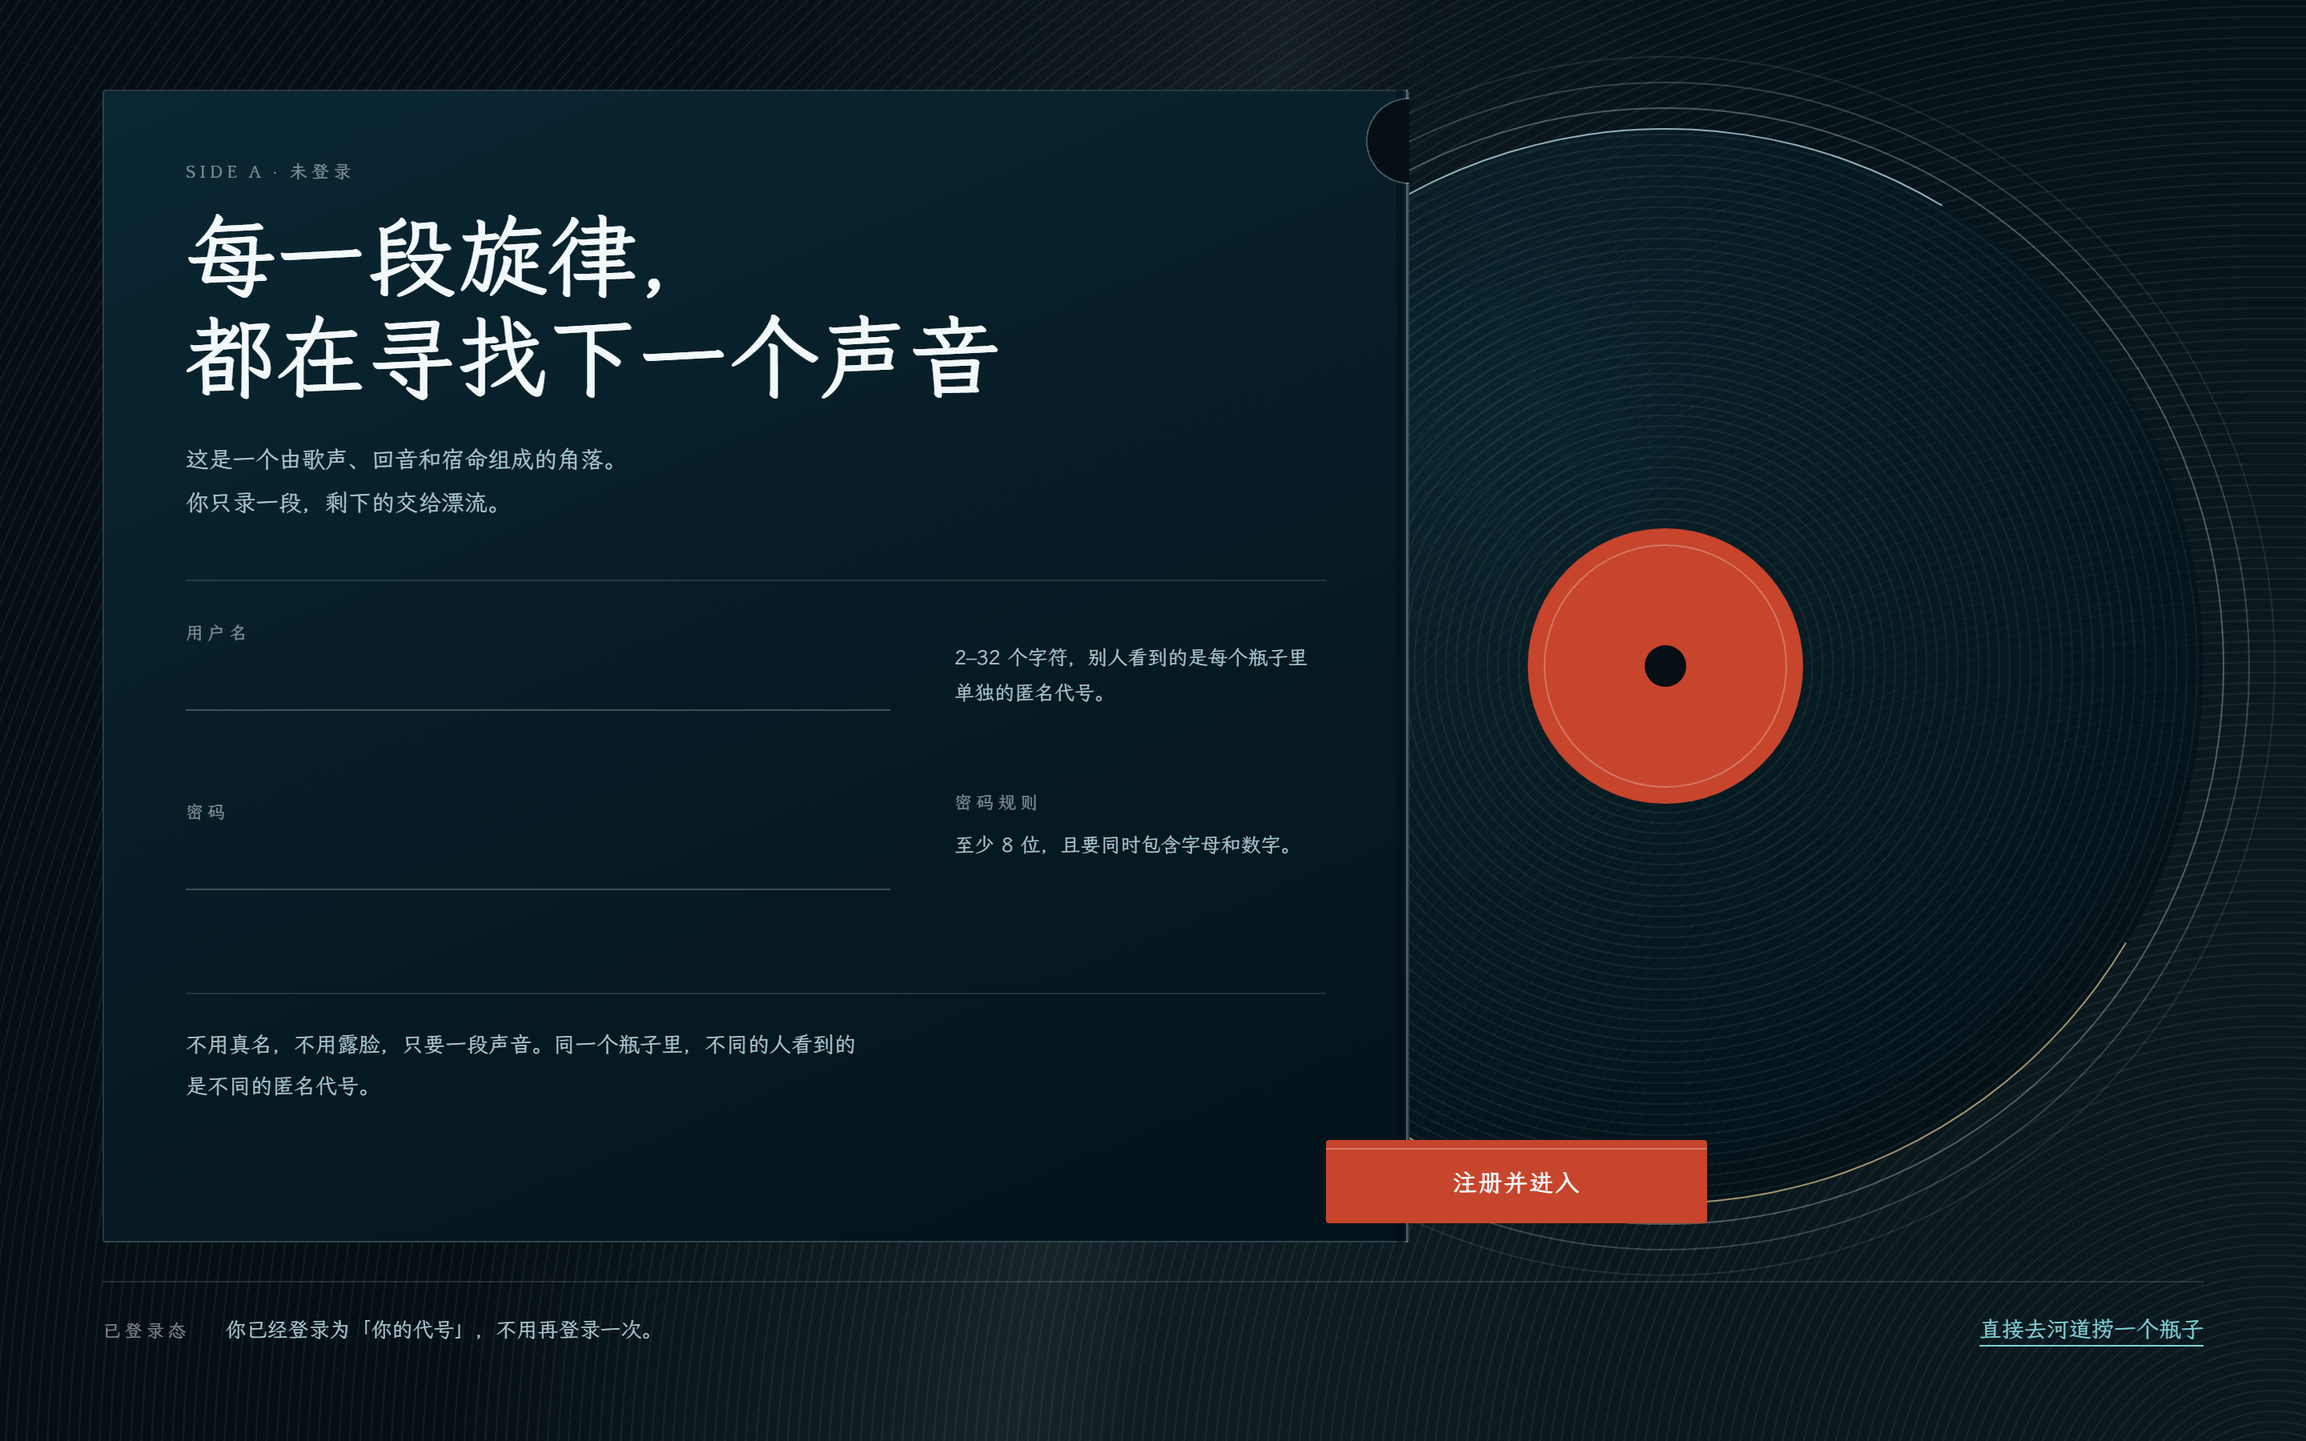
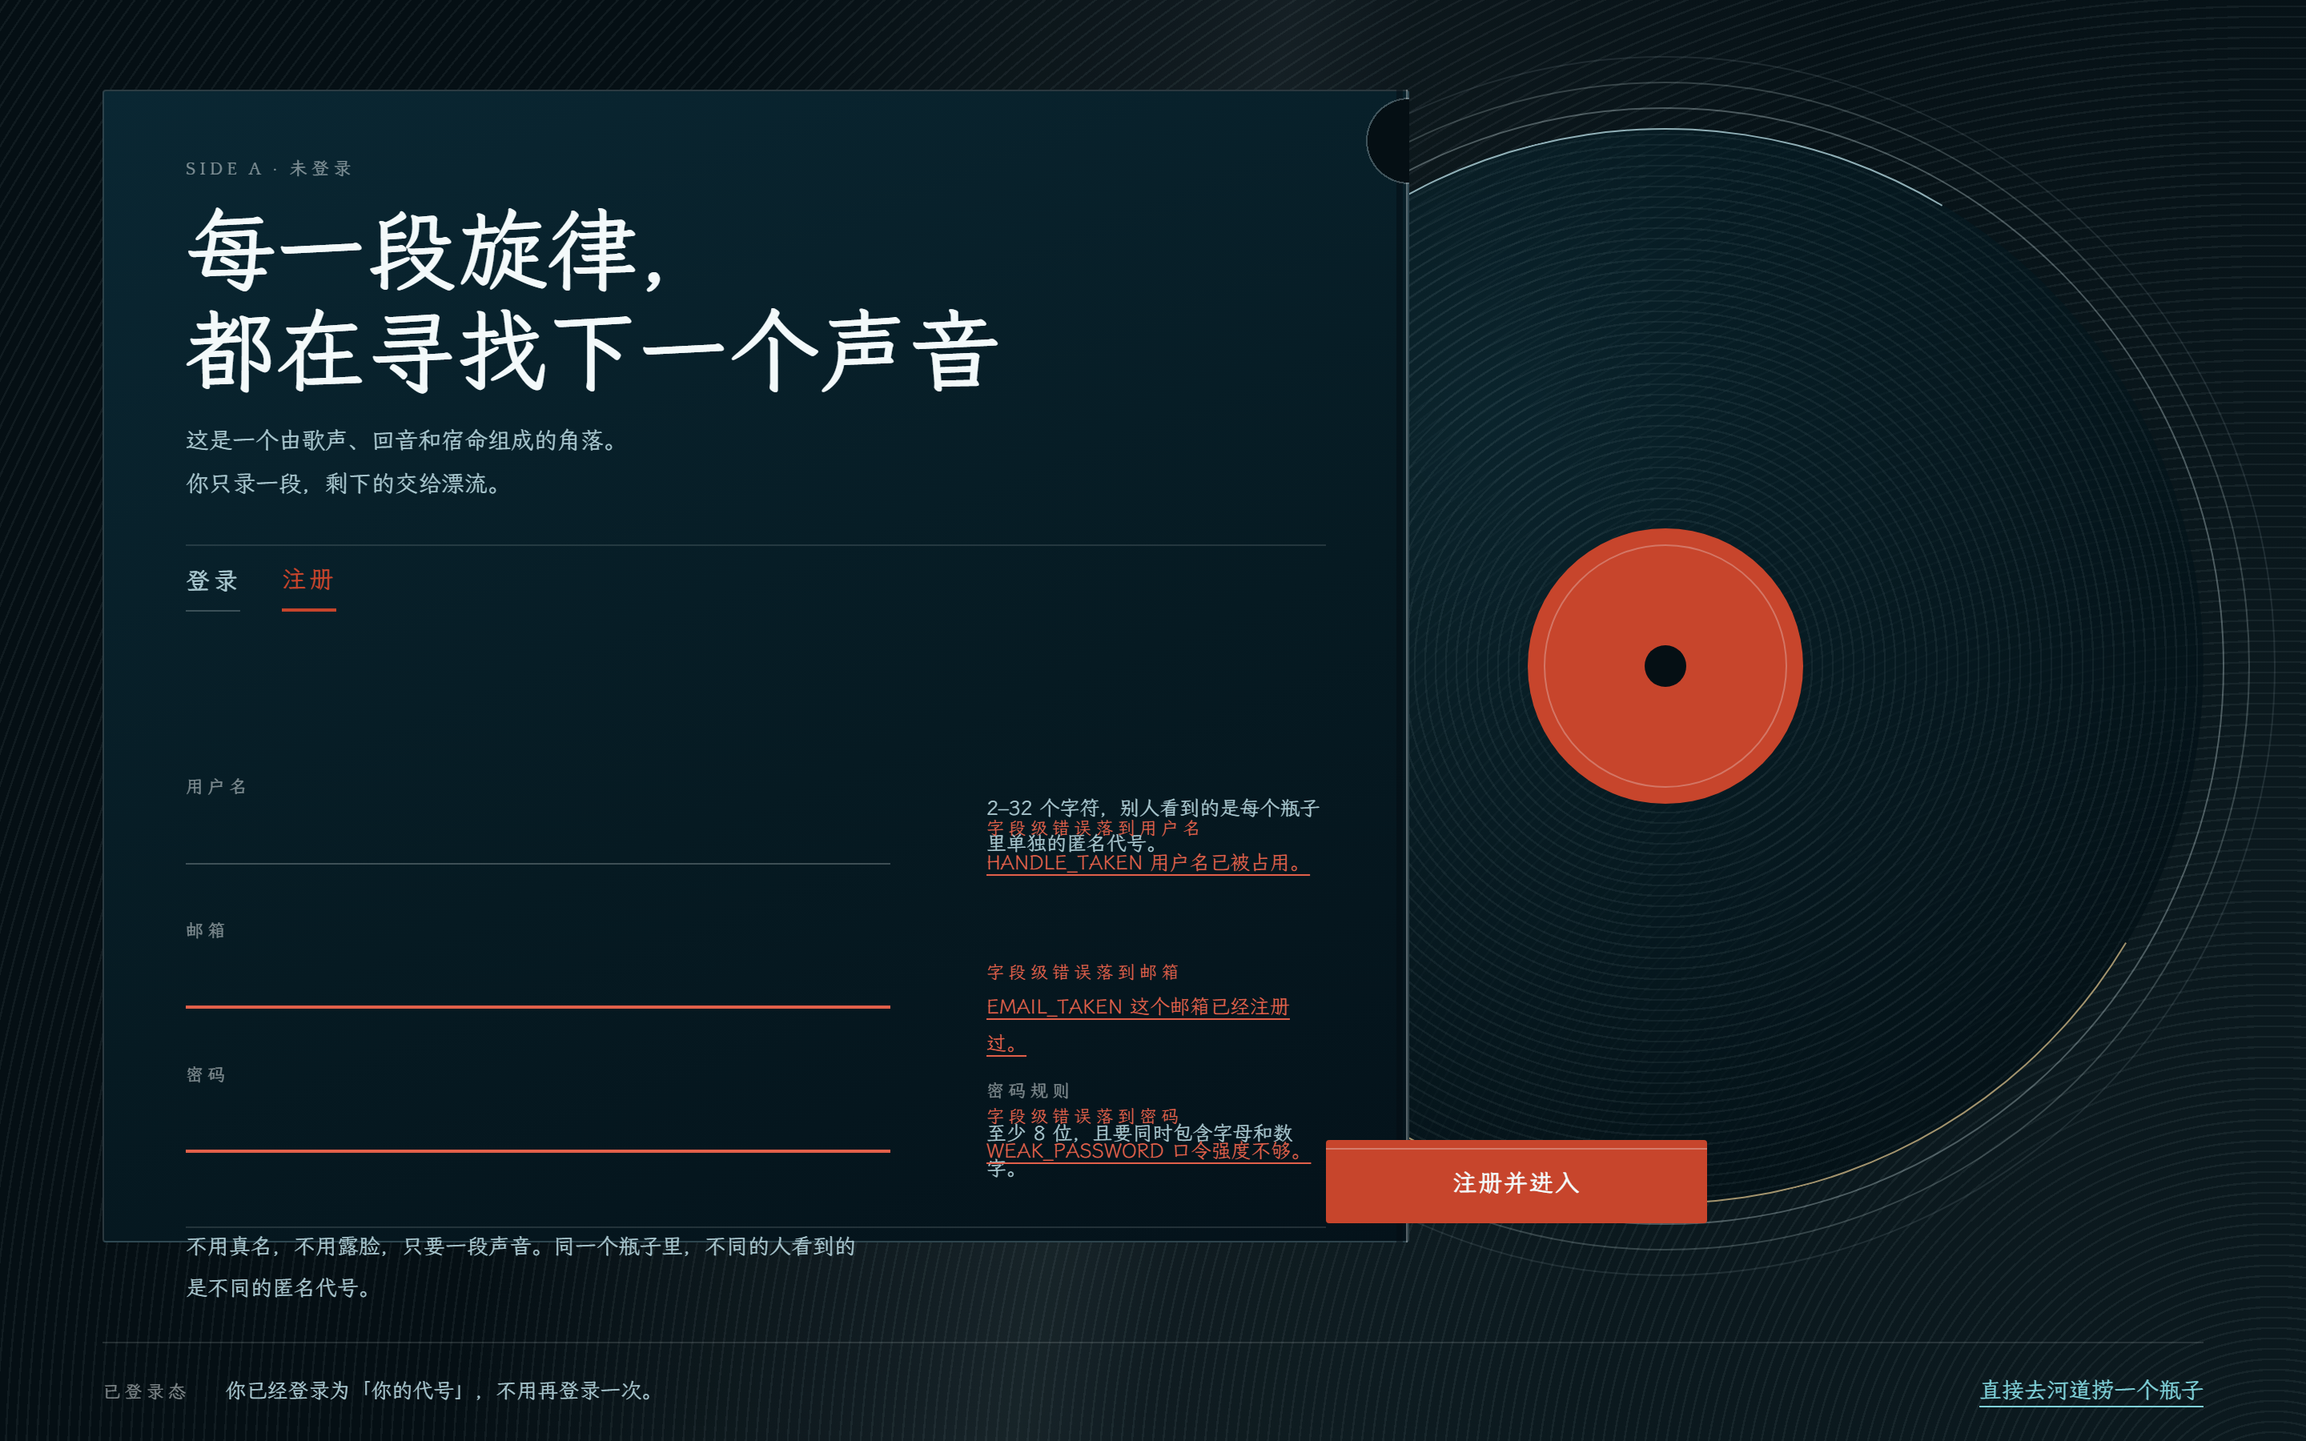
docs(design-explore): 落一份可追溯的逐页对照 + 交付审计（_AUDIT.md）
把此前只在对话里给过的 9 页适配度对照、本批 8 页的逐张判断与弱点、跨页装置重复风险、以及本批全部事故与我的两处规格错误，落成文档，避免结论只活在对话里。

diff --git a/docs/ui-review/design-explore/p-login-record.html b/docs/ui-review/design-explore/p-login-record.html
@@ -11,6 +11,7 @@
       :root {
         --ink:#050f14; --paper:#f3f9fa; --muted:#a9c7cf; --glass:#7fd1d9;
         --coral:#c7452c; --warm:#f6d79a; --line:rgba(243,249,250,.13);
+        --error:#e2604a;
       }
       * { box-sizing:border-box; margin:0; padding:0; }
       html,body { width:1440px; height:900px; }
@@ -61,30 +62,46 @@
           var(--ink) 0 26px, rgba(243,249,250,.24) 26px 27px, transparent 27px); }
 
       main { position:relative; z-index:2; }
-      .cat { position:absolute; left:116px; top:100px; font-size:11px; letter-spacing:.24em;
+      .cat { position:absolute; left:116px; top:98px; font-size:11px; letter-spacing:.24em;
         color:rgba(243,249,250,.5); }
-      h1 { position:absolute; left:116px; top:128px; width:712px; font-size:56px; font-weight:700;
+      h1 { position:absolute; left:116px; top:124px; width:712px; font-size:56px; font-weight:700;
         line-height:1.12; letter-spacing:.01em; }
-      .lede { position:absolute; left:116px; top:274px; width:620px; font-size:14.5px; line-height:1.85;
+      .lede { position:absolute; left:116px; top:262px; width:620px; font-size:14.5px; line-height:1.85;
         color:var(--muted); }
       .rule { position:absolute; left:116px; width:712px; height:1px; background:var(--line); }
 
+      /* 模式切换 = 压在封套左栏顶上的一对制式页签（源码里的 Tabs） */
+      .modes { position:absolute; left:116px; top:352px; display:flex; gap:26px; }
+      .mode { padding:0 0 9px; font-family:inherit; font-size:15px; font-weight:700; letter-spacing:.14em;
+        color:var(--muted); background:transparent; border:0; border-bottom:1px solid rgba(243,249,250,.22);
+        cursor:pointer; }
+      .mode.on { color:var(--coral); border-bottom:2px solid var(--coral); }
+
       .field { position:absolute; left:116px; width:440px; }
-      .f-handle { top:382px; }
-      .f-password { top:494px; }
+      .f-handle { top:478px; }
+      .f-email { top:568px; height:54px; }
+      .f-password { top:658px; height:54px; }
       .lbl { font-size:11px; letter-spacing:.24em; color:rgba(243,249,250,.5); }
       .field input { display:block; width:100%; height:34px; margin-top:6px; padding:0 0 6px;
         font-family:inherit; font-size:15.5px; color:var(--paper); background:transparent;
         border:0; border-bottom:1px solid rgba(243,249,250,.24); }
+      .field.bad input { border-bottom-width:2px; border-bottom-color:var(--error); }
+
+      /* 字段级错误的落位：一直落在字段列的右侧，靠底色 + 下划线双通道，不靠颜色单独表达 */
+      .err { position:absolute; left:616px; width:212px; color:var(--error); }
+      .err .lbl { color:inherit; }
+      .err .v { margin-top:9px; font-size:12.5px; line-height:1.7;
+        text-decoration:underline; text-decoration-thickness:1px; text-underline-offset:3px; }
+      .err.e-handle { top:504px; }
+      .err.e-password { top:684px; }
 
       /* 字段说明 = 印在栏目右侧的规格小字（表单的页边注） */
-      .spec { position:absolute; left:596px; width:232px; }
-      .spec.s1 { top:400px; }
-      .spec.s2 { top:494px; }
+      .spec { position:absolute; left:616px; width:212px; }
+      .spec.s1 { top:494px; }
       .spec .v { font-size:12.5px; line-height:1.75; color:var(--muted); }
       .spec .lbl + .v { margin-top:9px; }
 
-      .etiquette { position:absolute; left:116px; top:640px; width:420px; font-size:13.5px;
+      .etiquette { position:absolute; left:116px; top:766px; width:420px; font-size:13.5px;
         line-height:1.9; color:var(--muted); }
 
       /* 主行动 = 封套开口上的拉片：一半在封套里，一半压在唱片上 */
@@ -94,7 +111,7 @@
       .tab::before { content:''; position:absolute; left:0; top:5px; right:0; height:1px;
         background:rgba(243,249,250,.32); }
 
-      .band { position:absolute; left:64px; right:64px; top:800px; padding-top:20px;
+      .band { position:absolute; left:64px; right:64px; top:838px; padding-top:20px;
         border-top:1px solid var(--line); display:flex; align-items:baseline; gap:22px; }
       .band .said { font-size:13px; color:var(--muted); }
       .go { margin-left:auto; font-size:14px; color:var(--glass);
@@ -122,7 +139,12 @@
       <h1>每一段旋律，<br />都在寻找下一个声音</h1>
       <p class="lede">这是一个由歌声、回音和宿命组成的角落。<br />你只录一段，剩下的交给漂流。</p>
 
-      <div class="rule" style="top:362px"></div>
+      <div class="rule" style="top:340px"></div>
+
+      <div class="modes">
+        <button class="mode" type="button">登录</button>
+        <button class="mode on" type="button">注册</button>
+      </div>
 
       <div class="field f-handle">
         <label class="lbl meta" for="handle">用户名</label>
@@ -133,17 +155,37 @@
         <p class="v">2–32 个字符，别人看到的是每个瓶子里单独的匿名代号。</p>
       </div>
 
-      <div class="spec s2">
+      <p class="err e-handle" role="alert">
+        <span class="lbl">字段级错误落到用户名</span>
+        <span class="v">HANDLE_TAKEN 用户名已被占用。</span>
+      </p>
+
+      <div class="field f-email bad">
+        <label class="lbl meta" for="email">邮箱</label>
+        <input id="email" name="email" type="email" autocomplete="email" aria-invalid="true" />
+      </div>
+
+      <p class="err e-email" style="top:594px" role="alert">
+        <span class="lbl">字段级错误落到邮箱</span>
+        <span class="v">EMAIL_TAKEN 这个邮箱已经注册过。</span>
+      </p>
+
+      <div class="field f-password bad">
+        <label class="lbl meta" for="password">密码</label>
+        <input id="password" name="password" type="password" autocomplete="new-password" aria-invalid="true" />
+      </div>
+
+      <div class="spec s2" style="top:674px">
         <p class="lbl meta">密码规则</p>
         <p class="v">至少 8 位，且要同时包含字母和数字。</p>
       </div>
 
-      <div class="field f-password">
-        <label class="lbl meta" for="password">密码</label>
-        <input id="password" name="password" type="password" autocomplete="new-password" />
-      </div>
+      <p class="err e-password" role="alert">
+        <span class="lbl">字段级错误落到密码</span>
+        <span class="v">WEAK_PASSWORD 口令强度不够。</span>
+      </p>
 
-      <div class="rule" style="top:620px"></div>
+      <div class="rule" style="top:766px"></div>
 
       <p class="etiquette">不用真名，不用露脸，只要一段声音。同一个瓶子里，不同的人看到的是不同的匿名代号。</p>
 

diff --git a/docs/ui-review/design-explore/_AUDIT.md b/docs/ui-review/design-explore/_AUDIT.md
@@ -1,0 +1,68 @@
+# 全站语言对照与交付审计（record-v1 批次）
+
+> 本文件是「F4 唱片语言 vs g3 水底语言」的适配度对照 + 本批并行交付的 captain 复核记录。
+> 关联契约：`_LANGUAGE.md`（语言契约）、`docs/architecture.md` §103（设计探索决策）。
+> 判据一律以**机器输出**为准：`_shoot.mjs` 会打印 `1440x900 ✓ 一屏内` / `⚠ 超出一屏`。
+
+---
+
+## 1. 逐页适配度对照（9 页）
+
+| 页面 | 必须装什么（源码为准） | F4 唱片语言 | g3 水底语言 | 判 |
+| --- | --- | --- | --- | --- |
+| **公海大厅** | 4 字段列表 + 两 Tab + 真分页 | **强**：一行=一张封套背；4 格段位刻度直接编码「已录 N/4」 | 中：行=水里半透光条，涟漪气泡只是装饰，行内没有能编码进度的语法 | **F4** |
+| **公海作品详情** | 播放器 + 4 段链 + 参与者 + 入海时间 | **强**：把唱片剖开拉直成横向沟槽，**唱针位置=播放位置**，缺口=被切断的空槽 | 中：水面当时间轴，不如唱针直接 | **F4** |
+| **选一首歌** | 过滤 + 曲目列表 + 每段时长 | 强：未刻的空白母版；段位虚/实编码「已切分/未切分」 | 中 | **F4** |
+| **瓶子详情** | 录制 + 试听 + 三选一去向 + 段链 | 强：母版切成 4 条纵向刻槽，刻槽=已录、光面=缺口 | 强：捞/放/送出海本来就是水 | **平**（F4 已做） |
+| **漂流日志** | 时间线（`<ol>`）+ 匿名代号 | 中：时间线不是唱片语法（改用「刻痕」装置来救） | **强**：日志=漂流轨迹 | g3（用刻痕装置可追平） |
+| **我的** | 身份卡 + 参与过的瓶 + 徽章 | 中 | 中 | **两套都弱**，需另想构图 |
+| **设置** | 最小表单 + 匿名说明 + 署名 | 中：封套背面 liner notes 能装长文 | 中 | 平 |
+| **审核台** | 队列 + 裁决动作 | 中强：压片工单 + 裁决印章成立 | 中强：浮上来的东西成立 | 平 |
+| **登录 / 404** | 单卡单主行动 / 空状态 | 强：封套里抽出唱片 / 划伤跳针 | 强：水的调性本来就适合 | 平（F4 已做） |
+
+**结论**：两套语言能力面不重叠 —— **F4 强在"信息语法"**（段位刻度、母版号、裁决印章、曲目表），**g3 强在"情绪与叙事"**。
+按用户裁决（**好看 > 切换和谐 > 单一主题**），本批**统一走 record**，g3 的稿子保留为对照证据。
+
+---
+
+## 2. 本批交付（record-v1）
+
+| 文件 | 装置（领到的） | captain 亲眼看图后的判断 |
+| --- | --- | --- |
+| `p-sea-detail-record.html` | 唱针+沟槽=播放头与时间轴 | **最强的一张**。上半页有观点；弱点：下半页（段链/参与者/混音计划）是常规左列表+右列表，靠细线纪律撑着 |
+| `p-bottle-record.html` | 空白母版/刻录 + 4 格刻度 | 想法成立（4 条纵向刻槽）；弱点：1–3 格各 284px 高，约一半面积只承载沟槽纹理，**是气氛不是信息** |
+| `p-login-record.html` | 一张封套（抽出唱片） | 好：珊瑚拉片=主行动、die-cut 指孔=开口。**缺陷：漏装源码里的 email 字段与 登录/注册 双模式（我的规格写错，已回改）** |
+| `p-settings-record.html` | 封套背面 liner notes | 排版纪律好；弱点（作者自评，我同意）：**没有一处「大胆」**，可能被读成"一份印刷品" |
+| `p-songpicker-record.html` | 未刻母版 | 检索牌+5 行曲库成立；弱点：右侧 r150 盘 + 两外环仍是**全页最大的圆**，"大圆装饰"风险只靠 1px 珊瑚沟压住 |
+| `p-404-record.html` | 划伤跳针 | 划痕横断标题、豁口里写「这条水路不存在」= 正确；弱点：x400–880 中段偏平，上半页只有材质 |
+| `s1-sea-record.html` | 封套 + 段位刻度 | 行右侧三行小字（状态/时间/链接）偏挤 |
+| `s2-admin-record.html` | 压片工单 + 裁决印章 | 印章语言成立；弱点：4 行撑不满 900，**下半页约 1/3 是空的** |
+| 河道页 `f4-groove.html` | 母版本体的 hero | 已定为主线 |
+
+### 跨页风险（我作为 captain 的判断，不掩饰）
+1. **唱臂/刻录头出现在 ≥3 页**（详情、瓶子、404）。404 的是"跳针"装置的一部分，可辩护；瓶子的可从功能上区分（刻录头 ≠ 播放臂），但**视觉相似度仍偏高**。
+2. **「缺口/空槽」在详情与瓶子都是核心表达** —— 这其实**可辩护**：它们是同一支作品的两个视角（公海 vs 河道），同一个缺口在逻辑上是同一个东西。
+3. **大圆风险**：选歌页与登录页各有一颗大圆。登录的那颗是"抽出的唱片"，成立；选歌页的最外侧两道环可以收掉。
+
+---
+
+## 3. 事故与处置（如实记录）
+
+| 事故 | 证据 | 处置 |
+| --- | --- | --- |
+| **7 个文件被删**（`f4-d-dense/mid/soft`、`s1-sea-water`、`s2-admin-water` 及其 png） | `git status` | 已 `git checkout HEAD -- <dir>` **全部恢复**；5 个 agent 现已全部不可寻址，**无法追认到具体哪一个**；已向全体重申「淘汰件由 captain 统一清理」 |
+| **并发跑 `_shoot.mjs` 抢写 PNG 崩溃** | 两个 agent 独立复现 `UNKNOWN open …png` | 已修：图比源码新则跳过（并打印 skip）+ 写图失败重试 3 次 |
+| **`0b230989` 零交付**（漂流日志+我的） | 目录里无这两个文件，且无收尾消息 | 已补派 |
+| **我的规格错误：登录页漏 email / 双模式** | `apps/web/src/pages/login-page.tsx` 有 `email` 与 `mode==='login'` | 已改 `_LANGUAGE.md` §3 + 派回改 |
+| **我的规格错误：瓶子详情漏「放回海中」** | `CONTEXT.md` §3.2 打捞者的第三个选项 | 已补回 `_LANGUAGE.md` §3 |
+| `p-404` 掩膜写 `rgba(0,0,0,α)` | 掩膜只读 alpha，视觉等价于白 | 已统一成白（零视觉变化）；口径写进契约 |
+| `p-login` 的 `border-radius:27px` | 看图确认是**封套开口的半圆指孔** | **不改设计**，改契约：半圆属「圆的语法」 |
+
+---
+
+## 4. 每张稿的机器判据（captain 复核，不采信自述）
+
+- 全部稿：`1440x900 ✓ 一屏内`（`_shoot.mjs` 输出）。
+- 机械自检（我用 node 按码点重跑）：emoji/箭头 = 0、纯黑 = 0、外链 = 0、`@import` 四行保序、`border-radius` 除 `50%`/半圆外 ≤ 4px。
+- 仓库门禁（改动后复跑）：`pnpm lint` EXIT=0；`pnpm -r test` EXIT=0（shared 242 / api 180 / web 611 passed + 1 skipped）。
+  ⚠ 口径：本批只新增 `docs/` 下静态 HTML，**测试套件不覆盖它们**，所以全量绿只能证明「无回归」；交付物自身的判据是 `_shoot.mjs` 的一屏门禁 + 机械自检。
